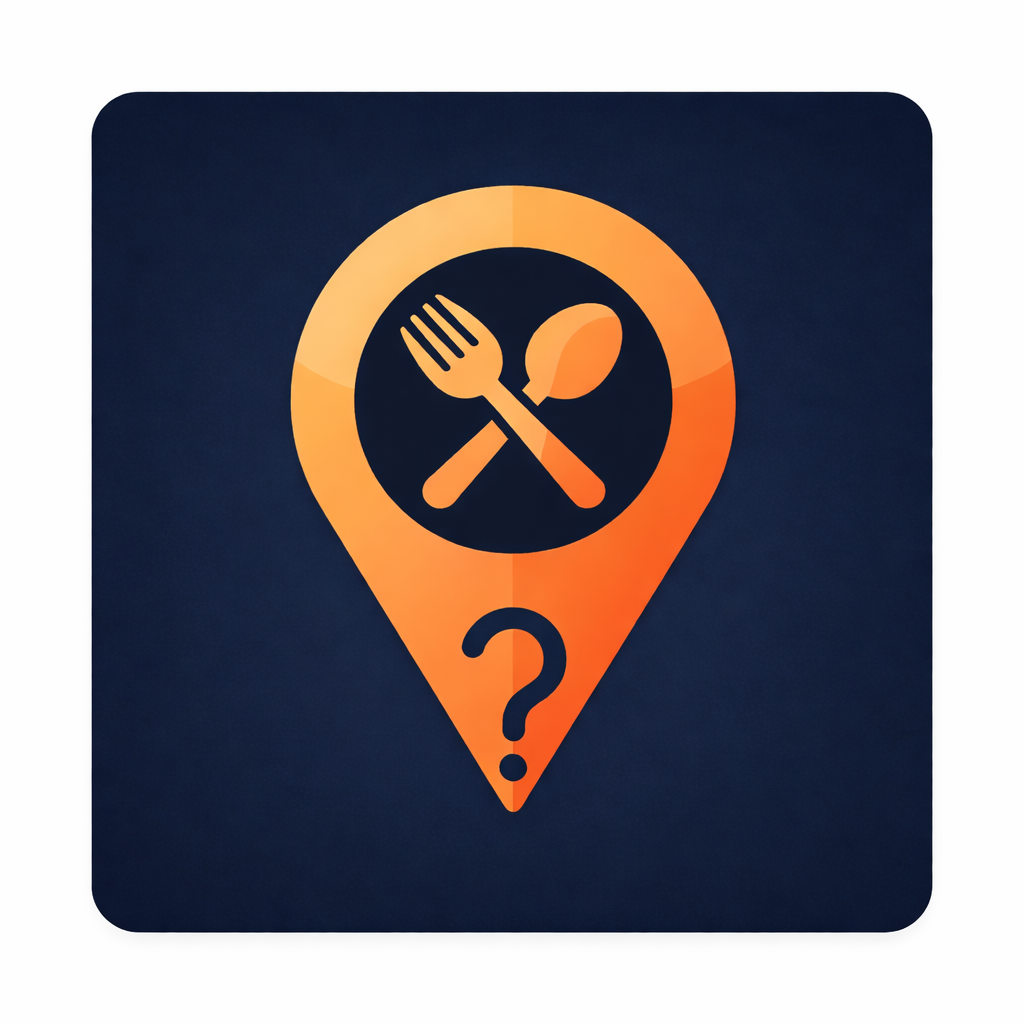
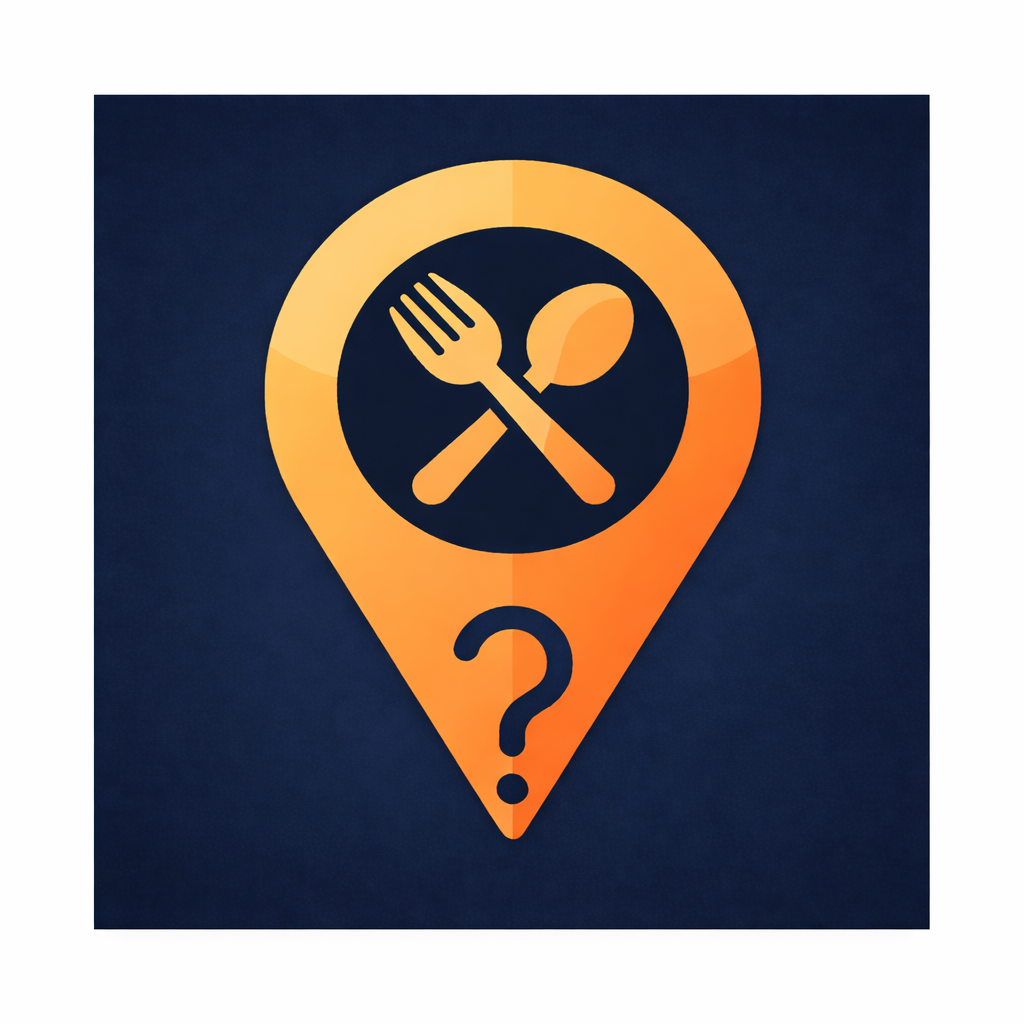
Add files via upload

diff --git a/index.html b/index.html
@@ -21,6 +21,8 @@
     
     <!-- Favicon and Icons -->
     <link rel="icon" type="image/png" href="icon.png">
+    
+    <!-- برای رفع مشکل لبههای سفید در iOS، تصویر icon.png باید یک مربع کامل بدون شفافیت در گوشهها باشد -->
     <link rel="apple-touch-icon" href="icon.png">
     <link rel="apple-touch-icon" sizes="152x152" href="icon.png">
     <link rel="apple-touch-icon" sizes="180x180" href="icon.png">
